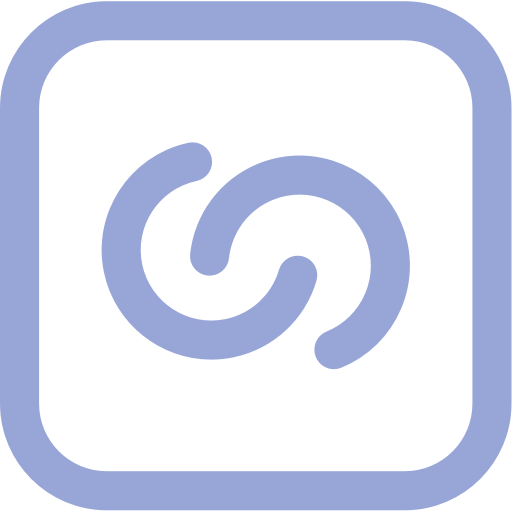
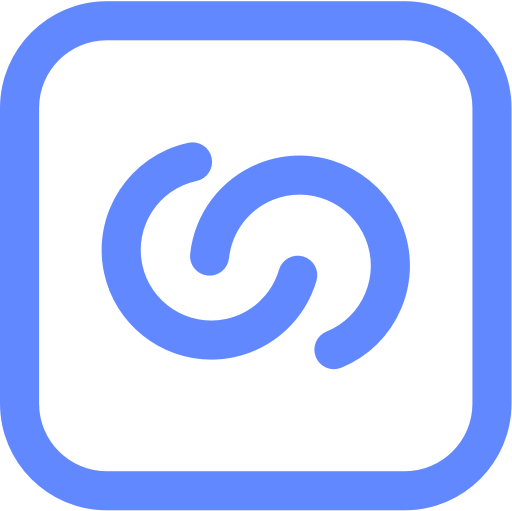
Release 1.2.0 (#2)
* Update app icons
* Logo @ page header

diff --git a/src/Main.svelte b/src/Main.svelte
@@ -112,16 +112,21 @@
 
     form {
         width: 100%;
-        padding: 2rem 1rem;
+        padding: 1rem;
     }
 
     header {
         text-align: center;
-        margin-bottom: 4rem;
+        margin-bottom: 3rem;
     }
-
-    h3 span {
-        display: block;
+    header article {
+        margin: .5rem 0 0;
+        pointer-events: none;
+    }
+    header svg {
+        fill: var(--color-page-logo);
+        width: 2rem;
+        height: 2rem;
     }
 
     fieldset {
@@ -162,14 +167,17 @@
     input::placeholder {
         color: var(--color-input-placeholder);
     }
-    input[readonly] {
-        cursor: default;
-    }
+
+    select:hover,
     input:hover {
         background-color: transparent;
         border-color: var(--color-input-border-hover);
     }
 
+    select[readonly],
+    input[readonly] {
+        cursor: default;
+    }
     select:invalid,
     input:invalid {
         border-color: var(--color-input-border-hover);
@@ -296,11 +304,23 @@
         header {
             text-align: left;
             margin-bottom: 6rem;
-            padding-left: 1.5rem;
+            margin-left: 1.5rem;
+            display: flex;
         }
-
-        h3 span {
-            display: inline-block;
+        header svg {
+            width: 4rem;
+            height: 4rem;
+            display: block;
+            transition: fill .25s;
+        }
+        header svg:hover {
+            fill: var(--color-page-logo-hover);
+        }
+        header article {
+            margin: 0 0 0 1.5rem;
+        }
+        header h3 {
+            margin-top: .2rem;
         }
     }
 </style>
@@ -308,20 +328,32 @@
 <main>
     <form bind:this={form} on:submit|preventDefault={checkout ? zkCheckout : create}>
         <header>
-            <h2>
-                {#if checkout}
-                    Make a payment
-                {:else}
-                    Create a payment link
-                {/if}
-            </h2>
-            <h3>
-                {#if checkout}
-                    <span>Fast, secure,</span> ultra-low transaction fee
-                {:else}
-                    <span>Accepting payments</span> is now just a link away
-                {/if}
-            </h3>
+            <a href="{HOME_URL}" title="PayNow">
+                <svg viewBox="0 0 393 392" xmlns="http://www.w3.org/2000/svg">
+                    <g>
+                        <path d="m214.147 207.039c-5.613 19.181-21.23 33.669-40.757 37.813-29.202 6.202-58.008-12.521-64.205-41.727s12.521-58.009 41.727-64.206c8.104-1.719 13.279-9.683 11.56-17.786-1.72-8.104-9.683-13.284-17.787-11.56-45.387 9.631-74.477 54.392-64.846 99.778 8.387 39.525 43.41 66.688 82.293 66.688 5.767 0 11.624-.599 17.486-1.843 30.34-6.437 54.604-28.942 63.322-58.732 2.327-7.95-2.232-16.282-10.184-18.609-7.949-2.321-16.282 2.233-18.609 10.184z"/>
+                        <path d="m198.131 125.633c-28.867 11.763-48.867 38.338-52.194 69.355-.883 8.236 5.078 15.63 13.314 16.514 8.238.884 15.631-5.077 16.515-13.314 2.148-20.025 15.056-37.182 33.685-44.771 27.866-11.354 59.771 2.079 71.124 29.943 5.5 13.498 5.414 28.33-.242 41.764-5.655 13.434-16.204 23.86-29.701 29.359-7.672 3.126-11.357 11.88-8.231 19.552 2.371 5.818 7.978 9.344 13.896 9.344 1.885 0 3.802-.357 5.654-1.112 20.919-8.523 37.267-24.684 46.032-45.502 8.765-20.819 8.897-43.806.374-64.725-17.594-43.184-67.04-63.997-110.226-46.407z"/>
+                        <path d="m310.724.929h-228.828c-45.158 0-81.896 36.738-81.896 81.896v226.97c0 45.157 36.738 81.896 81.896 81.896h228.828c45.158 0 81.896-36.738 81.896-81.896v-226.97c0-45.158-36.739-81.896-81.896-81.896zm51.896 308.866c0 28.615-23.28 51.896-51.896 51.896h-228.828c-28.616 0-51.896-23.281-51.896-51.896v-226.97c0-28.616 23.28-51.896 51.896-51.896h228.828c28.616 0 51.896 23.28 51.896 51.896z"/>
+                    </g>
+                </svg>
+            </a>
+
+            <article>
+                <h2>
+                    {#if checkout}
+                        Make a payment
+                    {:else}
+                        Create a payment link
+                    {/if}
+                </h2>
+                <h3>
+                    {#if checkout}
+                        <span>Fast, secure,</span> ultra-low transaction fees
+                    {:else}
+                        <span>Accepting payments</span> is just a link away
+                    {/if}
+                </h3>
+            </article>
         </header>
 
         <fieldset>

diff --git a/public/styles/global.css b/public/styles/global.css
@@ -19,6 +19,9 @@
     --color-page-text: rgb(43, 41, 85);
     --color-page-text-light: rgb(152, 166, 215);
 
+    --color-page-logo: var(--color-page-text-light);
+    --color-page-logo-hover: var(--color-page-text);
+
     --color-aside-background: #f4f7fe;
     --color-main-background: #ffffff;
 
@@ -36,6 +39,9 @@
     :root {
         --color-page-text: rgb(255, 255, 255);
         --color-page-text-light: rgb(161, 167, 187);
+
+        --color-page-logo: rgb(97, 136, 255);
+        --color-page-logo-hover: var(--color-page-text-light);
 
         --color-aside-background: rgb(52, 54, 69);
         --color-main-background: rgb(36, 38, 49);
@@ -101,7 +107,7 @@ a:hover {
 
 h2 {
     font-size: 1.6rem;
-    line-height: 1.8rem;
+    line-height: 2rem;
 }
 h3 {
     color: var(--color-page-text-light);
@@ -109,7 +115,6 @@ h3 {
     line-height: 1.4rem;
     font-weight: normal;
     display: block;
-    margin-top: 1rem;
 }
 
 input::-webkit-outer-spin-button,

diff --git a/CHANGELOG.md b/CHANGELOG.md
@@ -1,6 +1,10 @@
 ## PayNow | Changelog
 
 
+### 1.2.0 (2020-12-10)
+* Update app icons
+* Logo @ page header
+
 ### 1.1.0 (2020-12-09)
 * Highlight required fields
 * Add todos to the Readme
